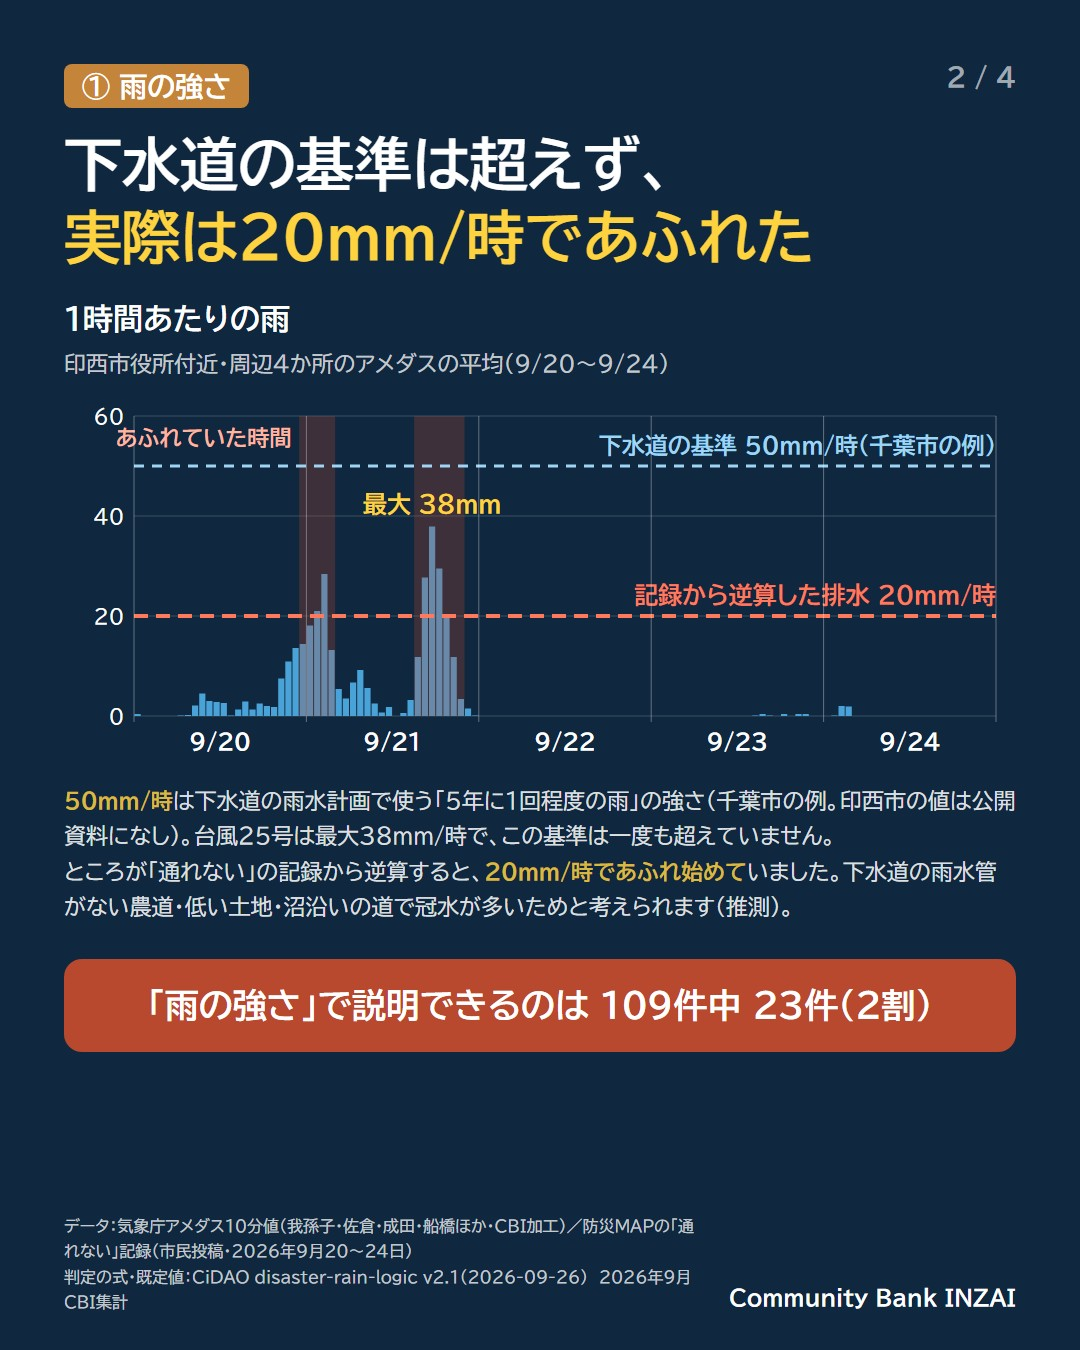
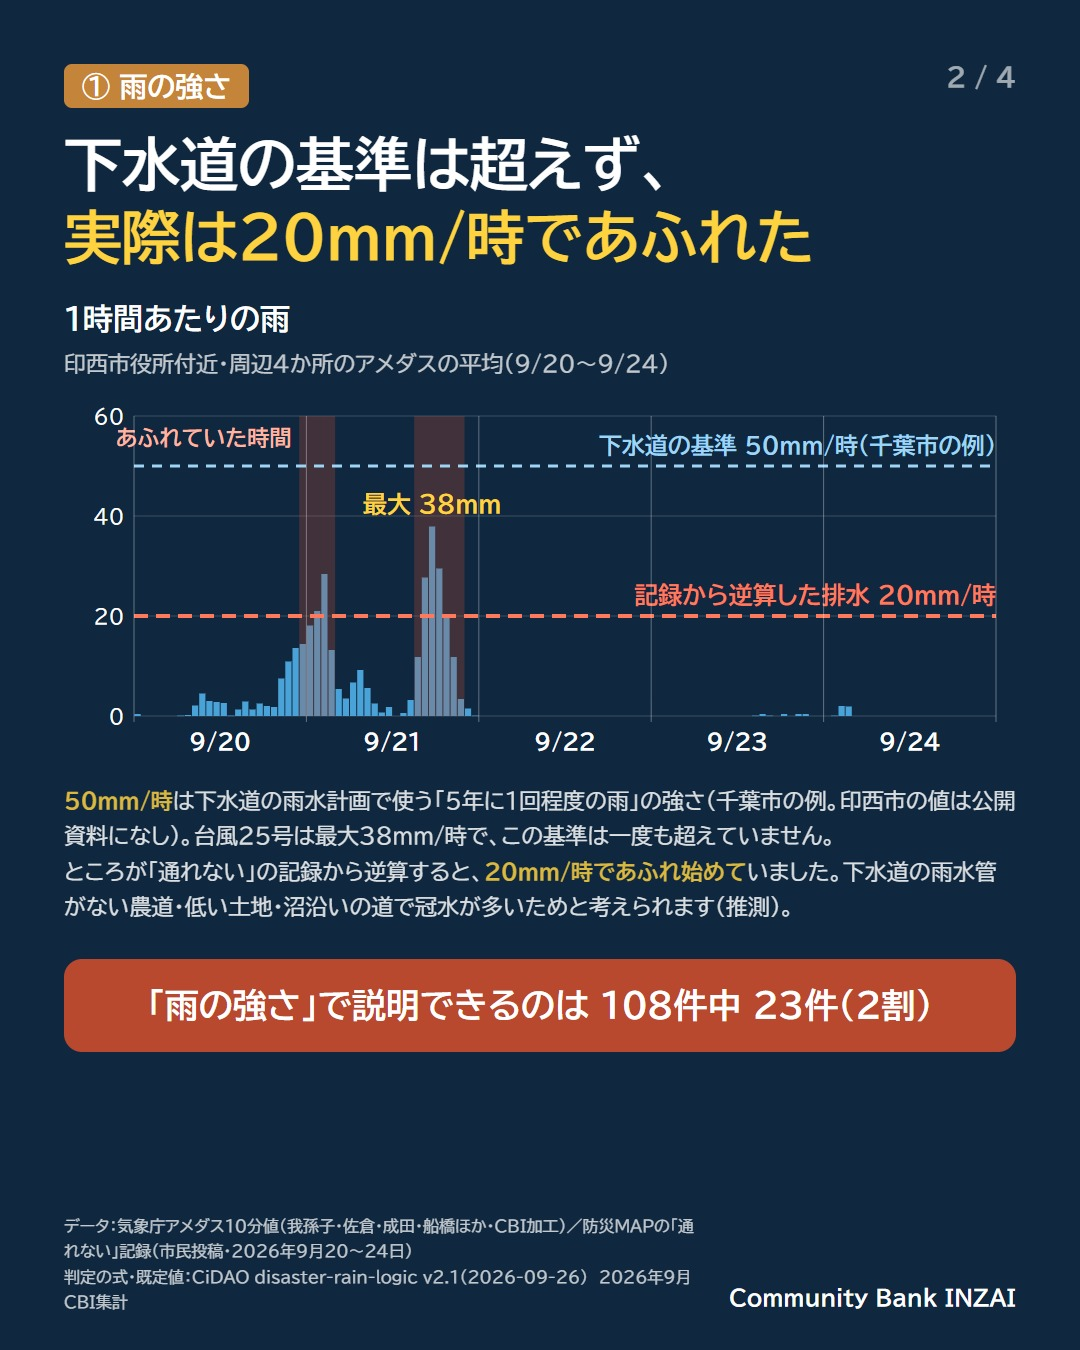
SNS（9/27 7:30 雨の判定）: 数字を今の記録に合わせる（通れない108件・9/22は58件・80件74%・103件95%）、読み物ページへの案内を本文に追加

diff --git a/assets/sns/2026-09-26_rain-logic/slides_source.html b/assets/sns/2026-09-26_rain-logic/slides_source.html
@@ -40,14 +40,14 @@ h2 .y{color:#ffd23f}
 <!-- 1 表紙（見出し帯は sns_headline.py で上に付ける） -->
 <section class="slide" data-s="1">
   <span class="kicker">防災MAP 検証</span>
-  <p class="lead" style="margin-top:20px">台風25号で防災MAPに寄せられた「通れない」109件を、<br>周辺の雨量データと突き合わせました。</p>
+  <p class="lead" style="margin-top:20px">台風25号で防災MAPに寄せられた「通れない」108件を、<br>周辺の雨量データと突き合わせました。</p>
   <div class="card">
     <h3>結論</h3>
     <p>冠水の主な原因は<span class="b">「一度に降る強さ」</span>より、<br><span class="r">「引く速さを上回って降り続いた量」</span></p>
   </div>
   <div class="box2">
-    <div><b>① 雨の強さ</b>下水道の基準（50mm/時）は超えず。記録から逆算した排水（20mm/時）を超えたのは<span class="num">109件中 23件</span></div>
-    <div><b>② 残った水</b>2日で約340mm降り、<br>やんでも約2日引かず<span class="num">109件中 82件</span>がこれで説明（合計96%）</div>
+    <div><b>① 雨の強さ</b>下水道の基準（50mm/時）は超えず。記録から逆算した排水（20mm/時）を超えたのは<span class="num">108件中 23件</span></div>
+    <div><b>② 残った水</b>2日で約340mm降り、<br>やんでも約2日引かず<span class="num">108件中 80件</span>がこれで説明（合計95%）</div>
   </div>
 </section>
 
@@ -138,7 +138,7 @@ h2 .y{color:#ffd23f}
 <line x1="932.0" y1="20" x2="932.0" y2="326" stroke="#fff" stroke-opacity=".35"/>
 </svg>
   <p class="note"><b>50mm/時</b>は下水道の雨水計画で使う「5年に1回程度の雨」の強さ（千葉市の例。印西市の値は公開資料になし）。台風25号は最大38mm/時で、この基準は一度も超えていません。<br>ところが「通れない」の記録から逆算すると、<b>20mm/時であふれ始めて</b>いました。下水道の雨水管がない農道・低い土地・沼沿いの道で冠水が多いためと考えられます（推測）。</p>
-  <div class="verdict warn">「雨の強さ」で説明できるのは 109件中 23件（2割）</div>
+  <div class="verdict warn">「雨の強さ」で説明できるのは 108件中 23件（2割）</div>
 </section>
 
 <!-- 3 残った水 -->
@@ -181,14 +181,14 @@ h2 .y{color:#ffd23f}
 <rect x="246.4" y="400" width="164.4" height="50" rx="10" fill="#ffffff" fill-opacity="0.18"/>
 <text x="328.6" y="437" fill="#fff" font-size="30" font-weight="800" text-anchor="middle">23件</text>
 <rect x="418.8" y="400" width="164.4" height="50" rx="10" fill="#ffffff" fill-opacity="0.18"/>
-<text x="501.0" y="437" fill="#ffd23f" font-size="30" font-weight="800" text-anchor="middle">59件</text>
+<text x="501.0" y="437" fill="#ffd23f" font-size="30" font-weight="800" text-anchor="middle">58件</text>
 <rect x="591.2" y="400" width="164.4" height="50" rx="10" fill="#ffffff" fill-opacity="0.18"/>
 <text x="673.4" y="437" fill="#fff" font-size="30" font-weight="800" text-anchor="middle">23件</text>
 <rect x="763.6" y="400" width="164.4" height="50" rx="10" fill="#ffffff" fill-opacity="0.18"/>
 <text x="845.8" y="437" fill="#fff" font-size="30" font-weight="800" text-anchor="middle">4件</text>
 </svg>
-  <p class="note">9/20〜21の2日間で約340mm。残り水は最大278mmに達し、雨がやんだ後も<b>9/23の夕方まで150mmを超えたまま</b>でした。「通れない」の記録は、雨がやんだ翌日の<b>9/22が最多（59件）</b>です。</p>
-  <div class="verdict ok">82件（75%）が「残った水」。①と合わせて 105件（96%）</div>
+  <p class="note">9/20〜21の2日間で約340mm。残り水は最大278mmに達し、雨がやんだ後も<b>9/23の夕方まで150mmを超えたまま</b>でした。「通れない」の記録は、雨がやんだ翌日の<b>9/22が最多（58件）</b>です。</p>
+  <div class="verdict ok">80件（74%）が「残った水」。①と合わせて 103件（95%）</div>
 </section>
 
 <!-- 4 まとめ -->

diff --git a/assets/sns/2026-09-26_rain-logic/caption.md b/assets/sns/2026-09-26_rain-logic/caption.md
@@ -2,7 +2,7 @@
 
 【台風25号の冠水は、なぜ起きた？】
 
-防災MAPに寄せられた「通れない」109件（9/20〜9/24）を、周辺の雨量データと突き合わせました。
+防災MAPに寄せられた「通れない」108件（9/20〜9/24）を、周辺の雨量データと突き合わせました。
 
 結論：冠水の主な原因は「一度に降る強さ」より、「引く速さを上回って降り続いた量」でした。
 
@@ -10,11 +10,11 @@
 1時間あたりの雨は、最大でも38mm（9/21 17時ごろ・印西市役所付近の周辺4か所平均）。
 下水道の雨水計画で使われる「5年に1回程度の雨」＝50mm/時（千葉市の例）は、一度も超えていません。
 ところが「通れない」の記録から逆算すると、20mm/時であふれ始めていました。下水道の雨水管がない農道・低い土地・沼沿いの道で冠水が多いためと考えられます（推測）。
-雨の強さで説明できるのは、109件のうち23件（2割）です。
+雨の強さで説明できるのは、108件のうち23件（2割）です。
 
 【② 残った水】
 9/20〜21の2日間で約340mm。降った雨を足し、48時間で半分引くとして差し引いた「残り水」は最大278mmに達し、雨がやんだ後も9/23の夕方まで150mmを超えたままでした。
-「通れない」の記録は、雨がやんだ翌日の9/22が最多（59件）。82件（75%）がこの「残った水」の時間帯に入り、①と合わせると105件（96%）になります。
+「通れない」の記録は、雨がやんだ翌日の9/22が最多（58件）。80件（74%）がこの「残った水」の時間帯に入り、①と合わせると103件（95%）になります。
 
 【バケツは2つある】
 ・側溝・下水道：小さいが速い。実際は20mm/時ほどであふれる（記録から逆算）
@@ -36,6 +36,9 @@
 ▼数値を変えて試せる説明ページ（判定の考え方・根拠）
 https://communitybankinzai.github.io/cbi-site/inzai-disaster-map/rain-logic.html
 
+▼みなさんの記録で分かったこと（やさしい説明）
+https://communitybankinzai.github.io/cbi-site/inzai-disaster-map/kiroku-typhoon25.html
+
 ▼防災MAP
 https://communitybankinzai.github.io/cbi-site/inzai-disaster-map/
 
@@ -49,12 +52,12 @@ https://communitybankinzai.github.io/cbi-site/inzai-disaster-map/
 
 【台風25号の冠水は、なぜ起きた？】
 
-防災MAPの「通れない」109件を雨量データと突き合わせました。
+防災MAPの「通れない」108件を雨量データと突き合わせました。
 
 結論：主な原因は「一度に降る強さ」より「引く速さを上回って降り続いた量」でした。
 
 ① 1時間の雨は最大38mm。下水道の基準（50mm/時）は超えず。ただし記録から逆算すると20mm/時であふれ始めていた。強さで説明できるのは23件（2割）。
-② 2日で約340mm。48時間で半分引くとした「残り水」は最大278mm、雨がやんだ後も約2日150mm超え。「通れない」は雨がやんだ翌日9/22が最多（59件）。82件（75%）がこの時間帯、合わせて105件（96%）。
+② 2日で約340mm。48時間で半分引くとした「残り水」は最大278mm、雨がやんだ後も約2日150mm超え。「通れない」は雨がやんだ翌日9/22が最多（58件）。80件（74%）がこの時間帯、合わせて103件（95%）。
 
 「雨がやんだ」は「水が引いた」ではありません。
 
